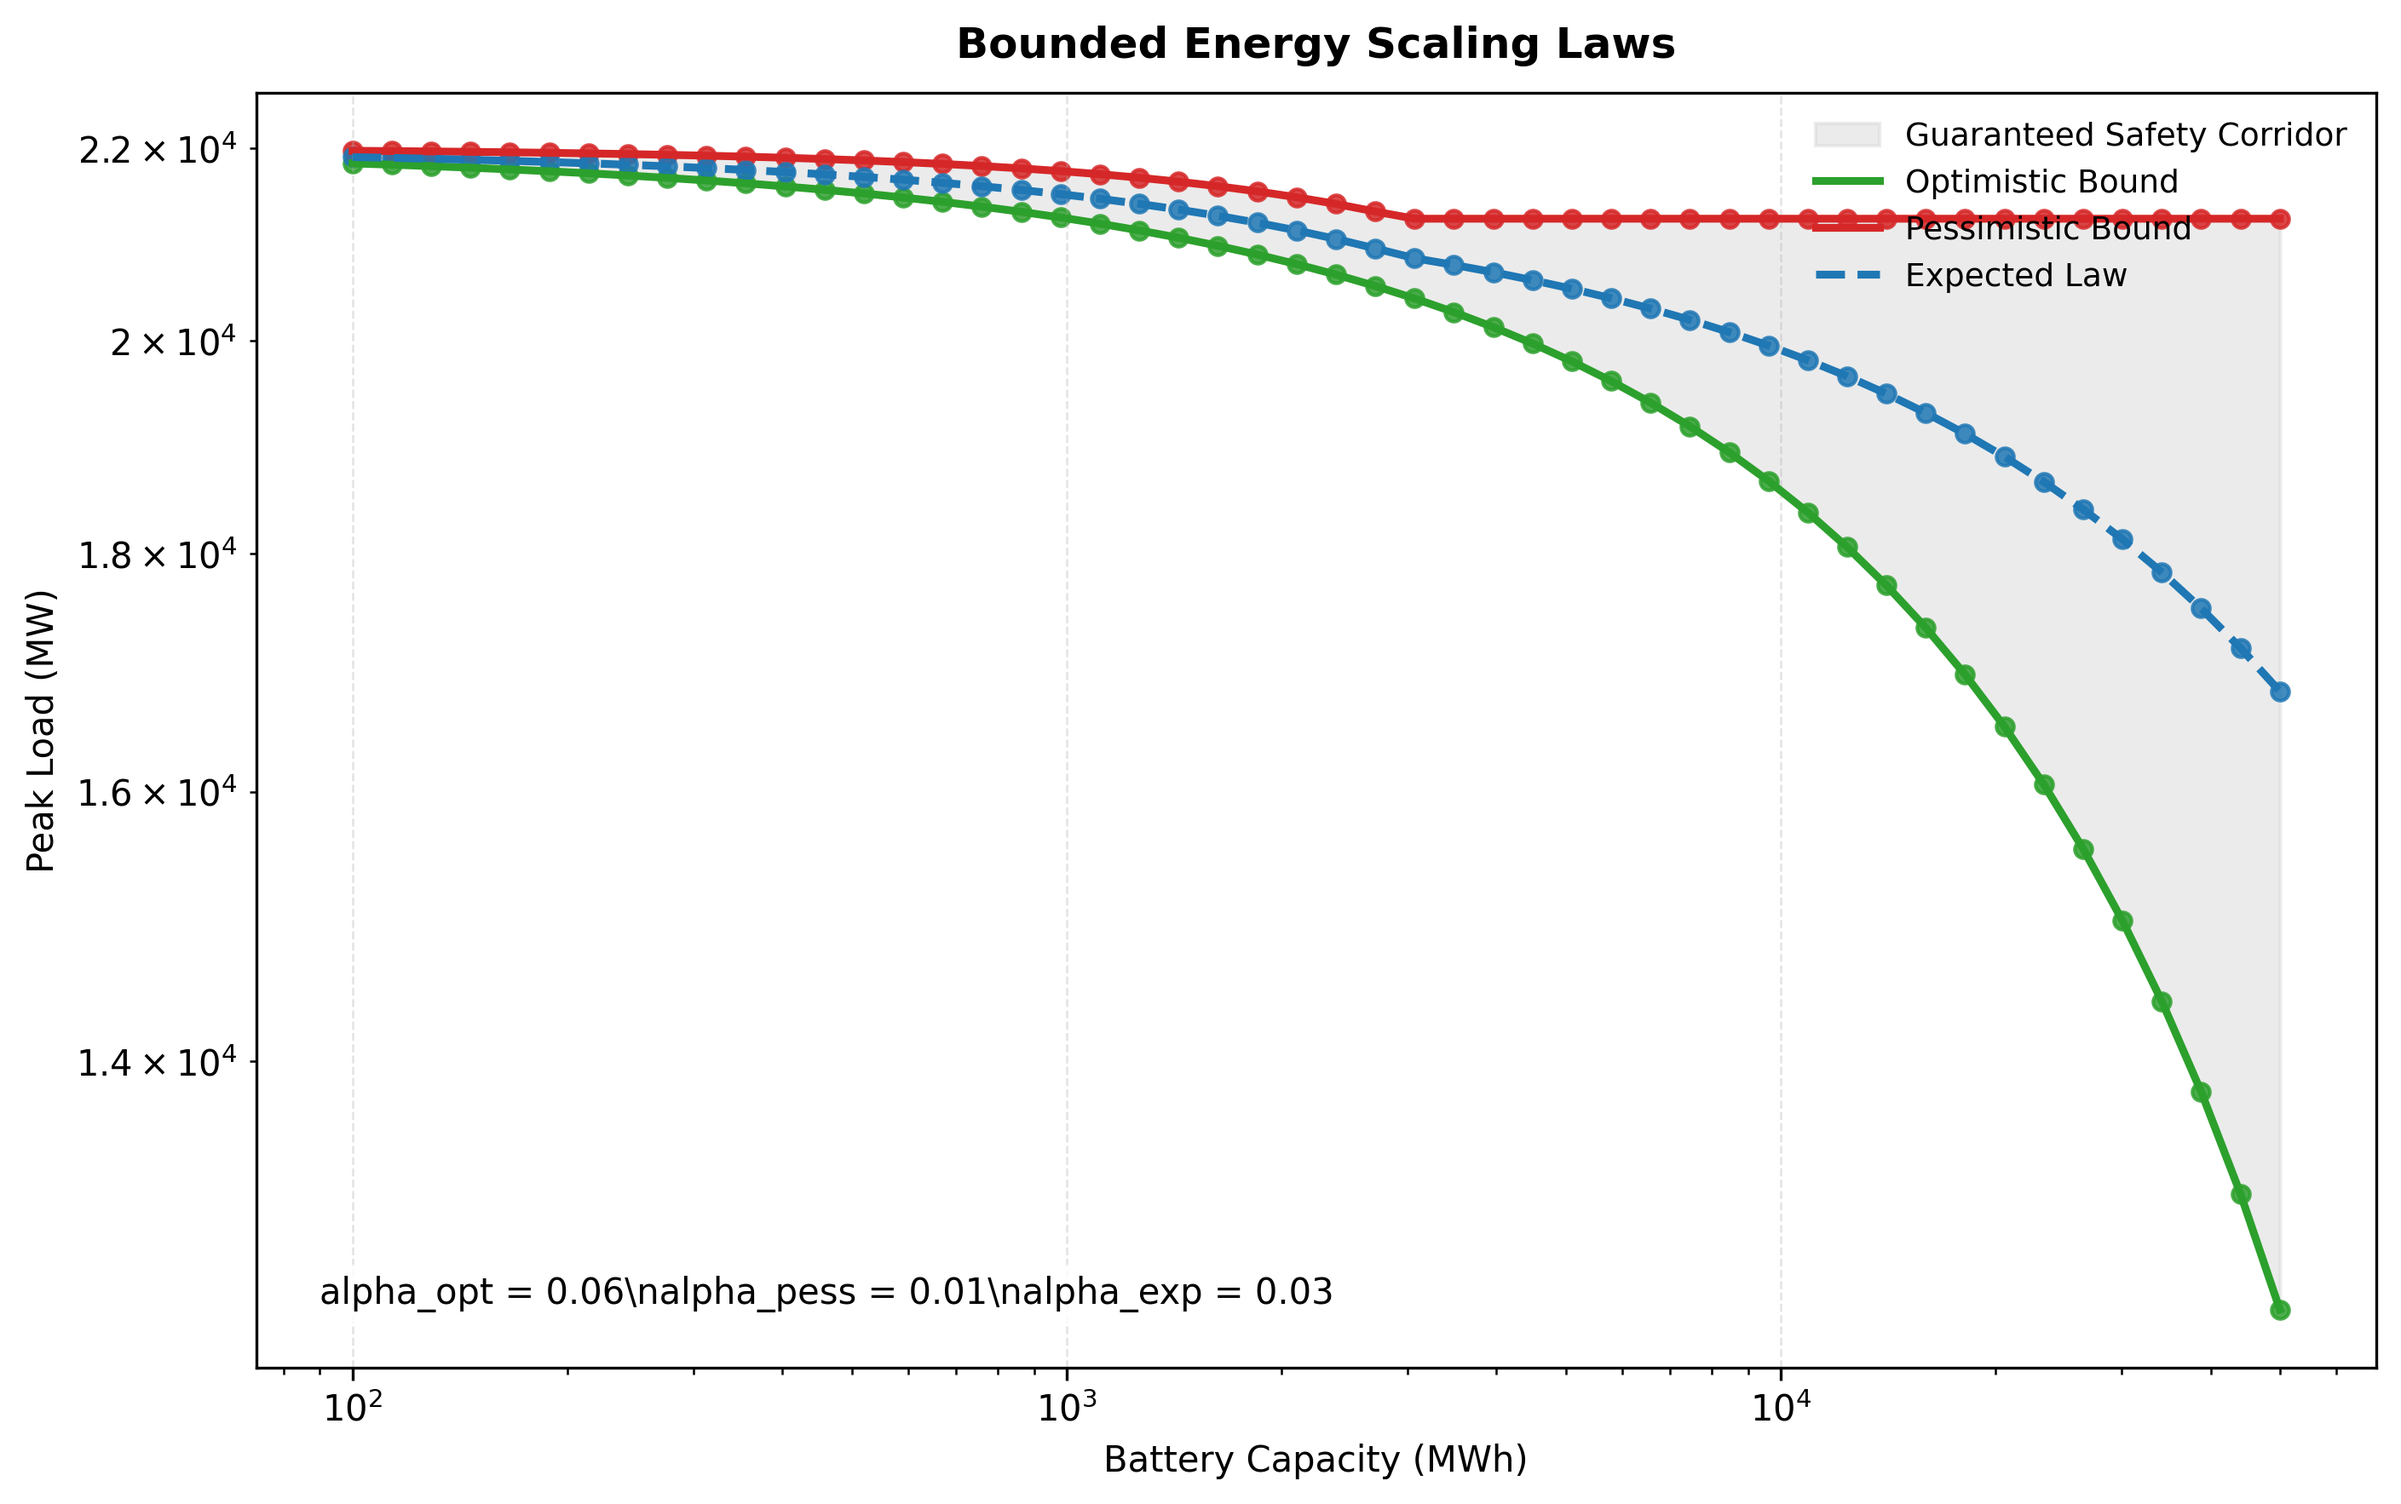
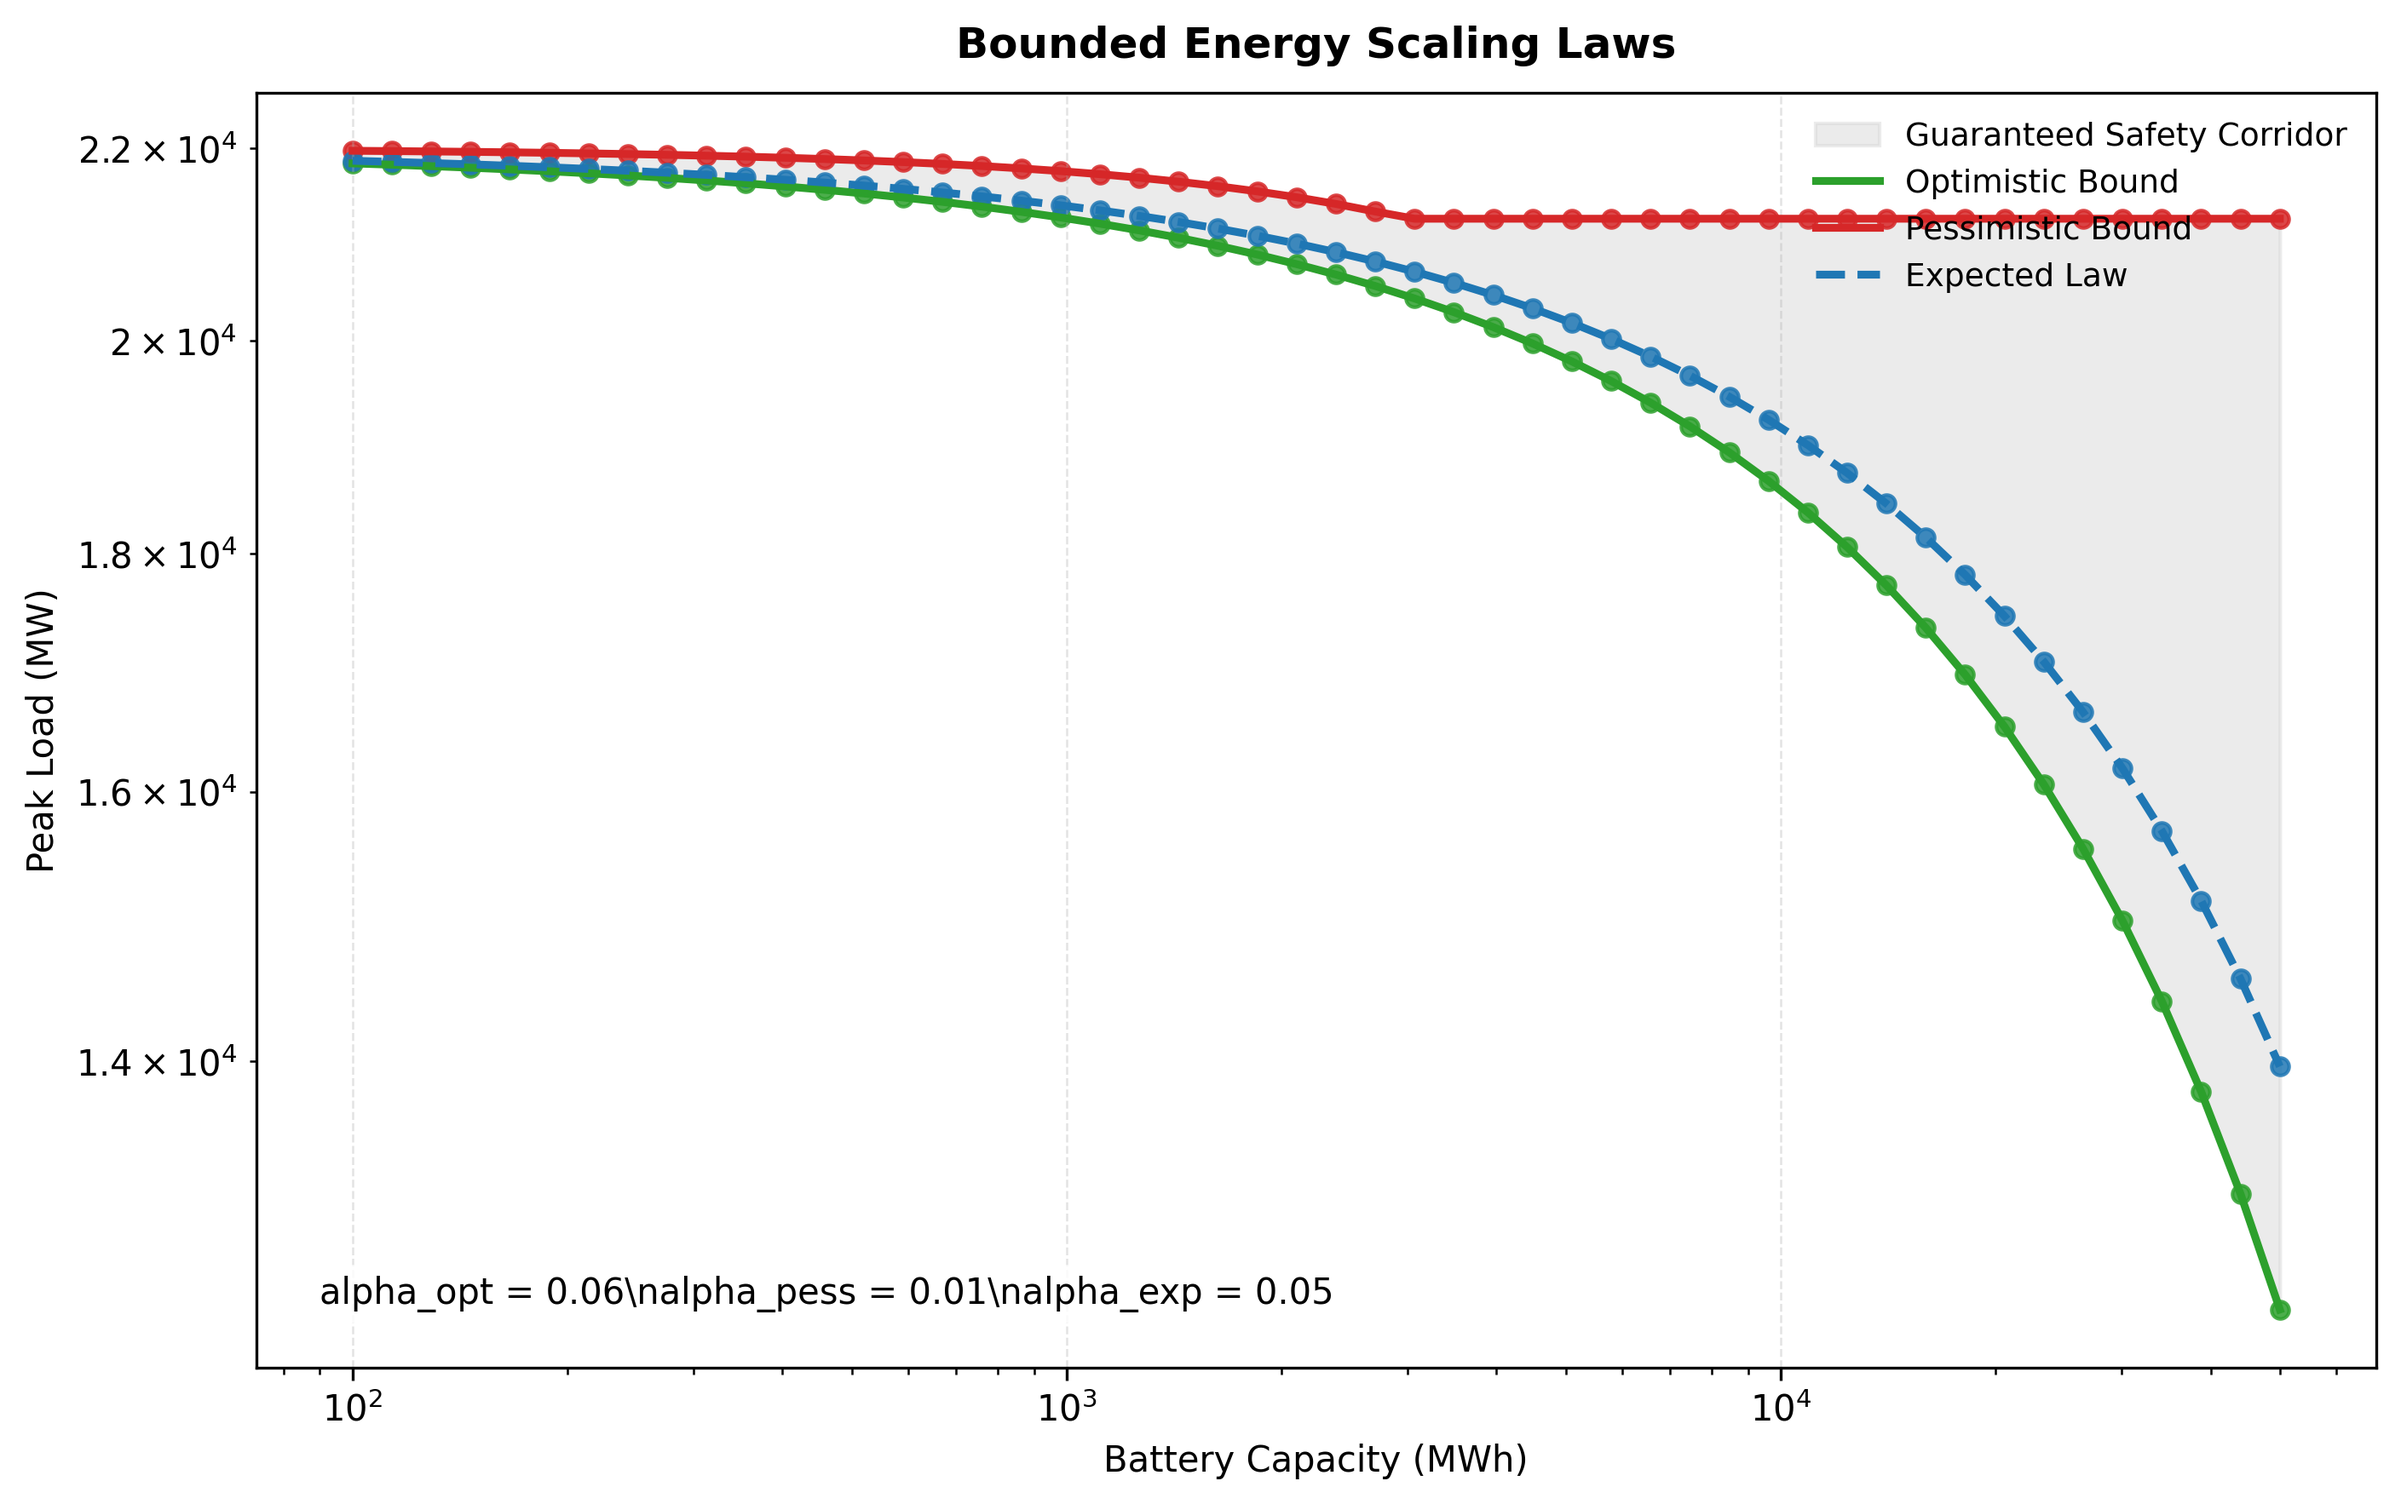
Refine peak load estimation in water filling bounds experiment
- Introduced an effective capacity factor to improve peak expected load calculations.
- Updated self-check logic to ensure expected bounds are correctly validated between optimistic and pessimistic estimates.
- Added comments for clarity in the load curve generation process.

diff --git a/experiments/03_water_filling_bounds/bounded_scaling_laws.py b/experiments/03_water_filling_bounds/bounded_scaling_laws.py
@@ -12,11 +12,13 @@ CAPACITY_MAX_MWH = 50000.0
 LOGSPACE_POINTS = 50
 BLOCK_START_HOUR = 17.0
 BLOCK_DURATION_HOURS = 4.0
+EFFECTIVE_CAPACITY_FACTOR = 0.75
 OUTPUT_PATH = "bounded_scaling_viz.png"
 
 
 def generate_duck_curve(num_points: int = NUM_POINTS) -> tuple[np.ndarray, np.ndarray]:
     time_hours = np.linspace(0.0, HOURS_PER_DAY, num_points, endpoint=False)
+    # Phase shift to align the peak window with early evening hours.
     time_rad = 2 * np.pi * (time_hours - 12.0) / HOURS_PER_DAY
     load_mw = 12000 + 6000 * np.sin(time_rad) - 4000 * np.cos(2 * time_rad)
     load_mw = np.clip(load_mw, 0.0, None)
@@ -65,7 +67,8 @@ def simulate_bounds(load_curve: np.ndarray, capacity_mwh: float) -> tuple[float,
     pess_curve[block_mask] = pess_curve[block_mask] - discharge_power
     peak_pess = float(pess_curve.max())
 
-    peak_exp = 0.5 * (peak_opt + peak_pess)
+    effective_capacity = capacity_mwh * EFFECTIVE_CAPACITY_FACTOR
+    peak_exp = solve_optimal_ceiling(load_curve, effective_capacity, dt_hours)
     return peak_opt, peak_pess, peak_exp
 
 
@@ -173,8 +176,8 @@ def main() -> None:
     peaks_pess = np.array(peaks_pess)
     peaks_exp = np.array(peaks_exp)
 
-    if not np.all(peaks_opt <= peaks_pess + 1e-8):
-        raise ValueError("Self-check failed: optimistic bound exceeds pessimistic bound.")
+    if not np.all((peaks_opt <= peaks_exp + 1e-8) & (peaks_exp <= peaks_pess + 1e-8)):
+        raise ValueError("Self-check failed: expected bound not between optimistic and pessimistic bounds.")
 
     _, alpha_opt = fit_power_law(capacities, peaks_opt)
     _, alpha_pess = fit_power_law(capacities, peaks_pess)
